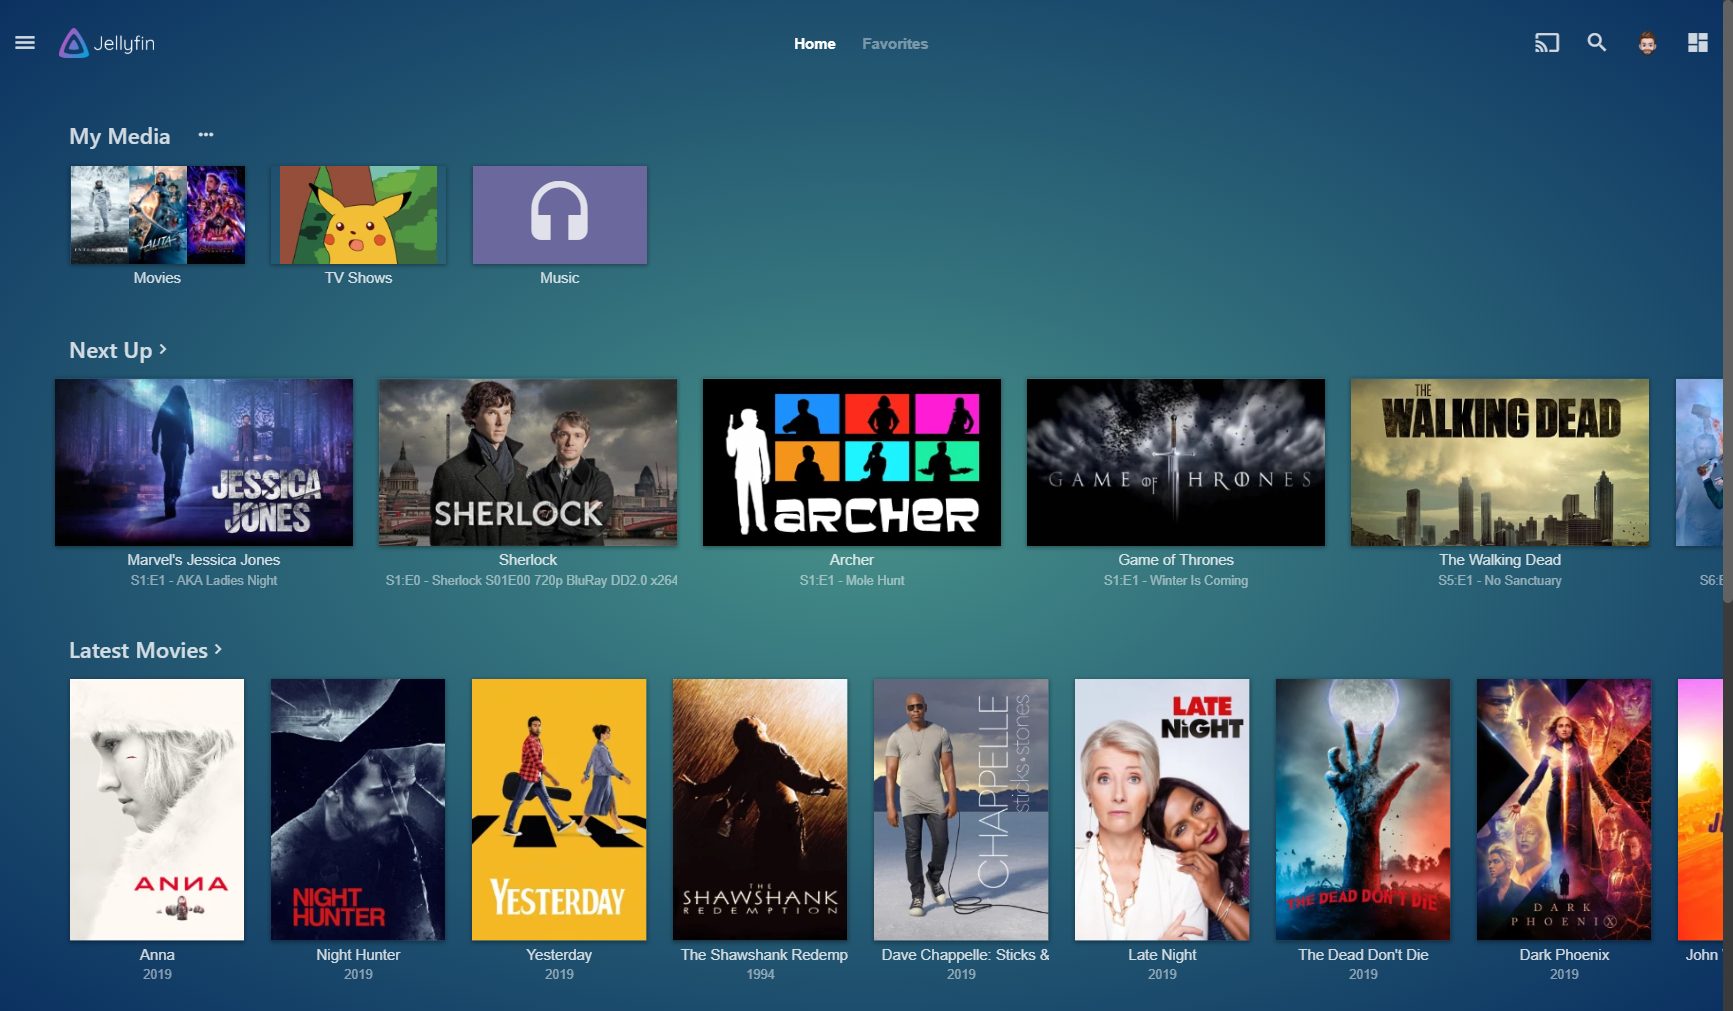
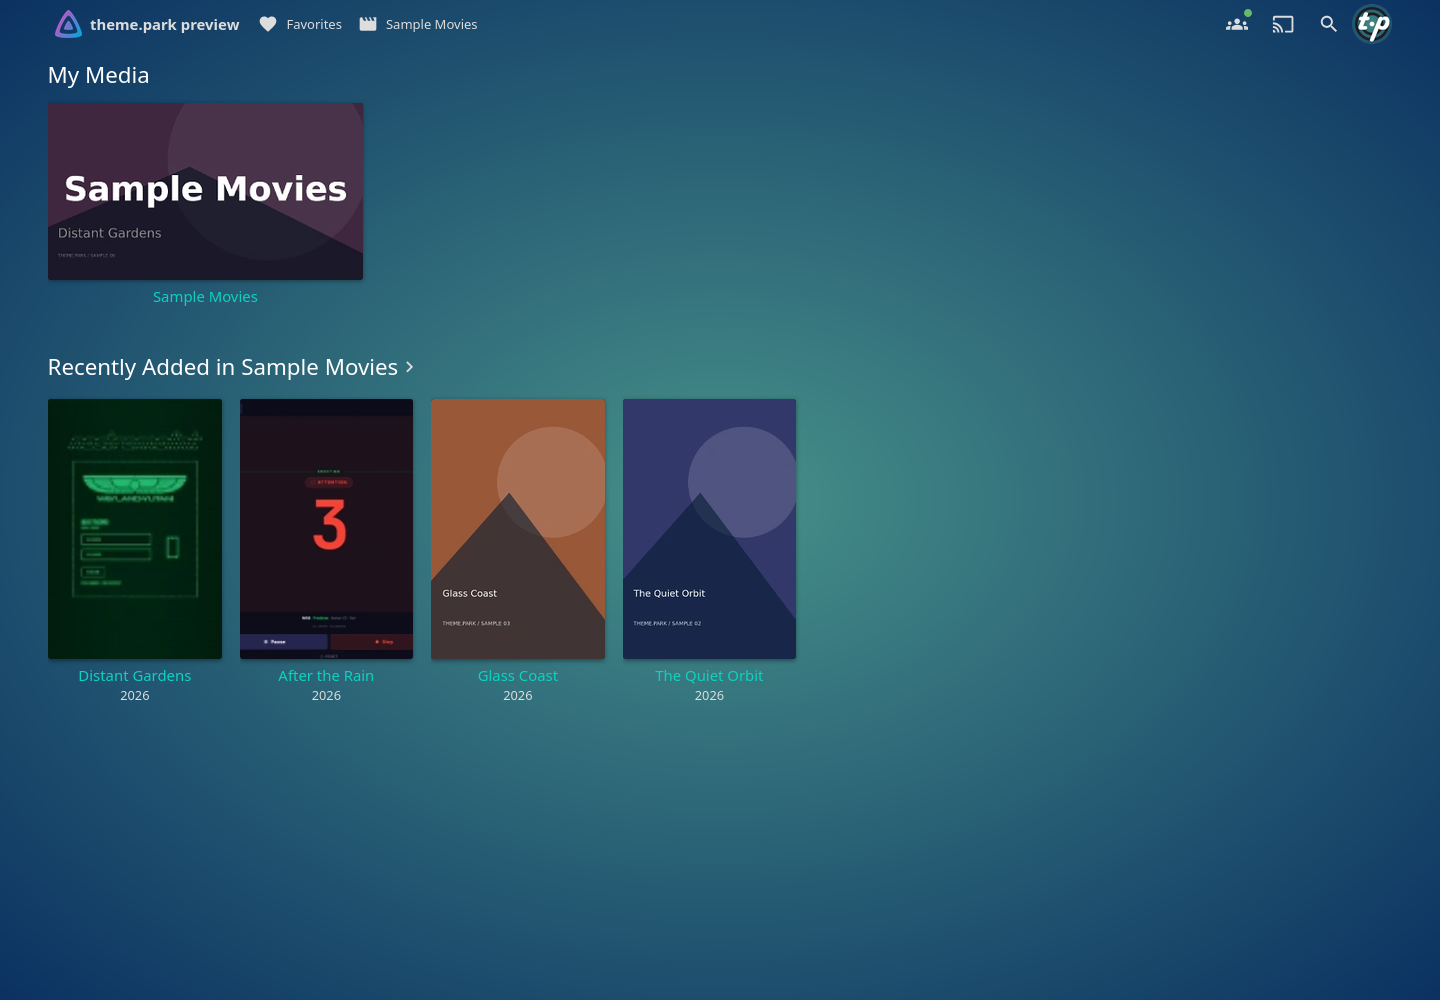
Refresh Jellyfin screenshots and installation instructions

diff --git a/docs/themes/jellyfin.md b/docs/themes/jellyfin.md
@@ -9,25 +9,38 @@ Custom [{{ page.title.split()[0] }}](https://github.com/jellyfin/jellyfin) CSS
 
 ## 🛠 Installation
 
-### Setup
+### Built-in Custom CSS
 
-Go to `Dashboard` -> `General` and scroll down to `Branding`
+These screenshots show Jellyfin 12.0.
 
-In the custom CSS input field add:
+Open **Dashboard > Branding** and add this to **Custom CSS code**, replacing
+`<THEME>` with a [theme option](/theme-options/). Save your changes.
 
 ```css
 @import url("https://theme-park.dev/css/base/jellyfin/<THEME>.css");
 ```
 
-and hit save.
-
-i.e.
+For example, Nord:
 
 ```css
 @import url("https://theme-park.dev/css/base/jellyfin/nord.css");
 ```
 
-<img src="/site_assets/{{ page.title.split()[0].lower() }}/example.png"></img>
+### Include the dashboard
+
+Jellyfin 12 does not load its Custom CSS setting in the admin dashboard.
+To theme those pages too, use [reverse-proxy subfiltering](/setup/#nginx).
+For nginx, inject the chosen theme into the web client HTML:
+
+```nginx
+proxy_set_header Accept-Encoding "";
+sub_filter '</head>' '<link rel="stylesheet" href="https://theme-park.dev/css/base/jellyfin/nord.css"></head>';
+sub_filter_once on;
+```
+
+Add this to the location that serves the web client. Keep API, media, and
+WebSocket proxy configuration separate. Use one injection method to avoid
+loading duplicate themes.
 
 {% set addons = extra.addons %}
 {% set title = page.title.split()[0].lower() %}
